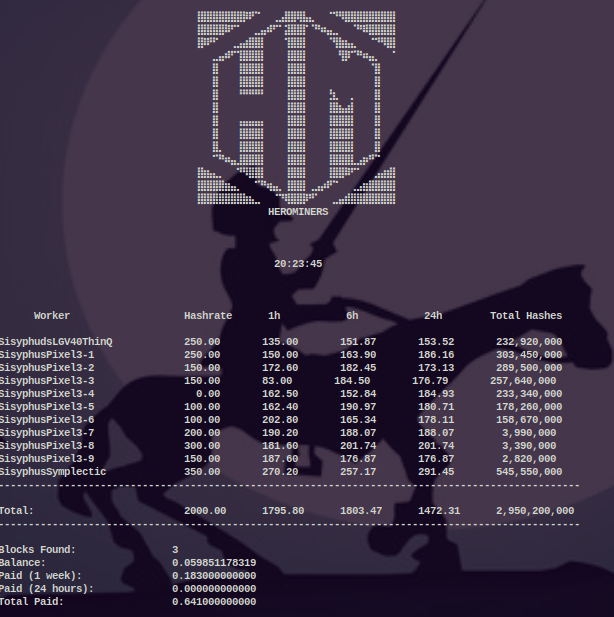
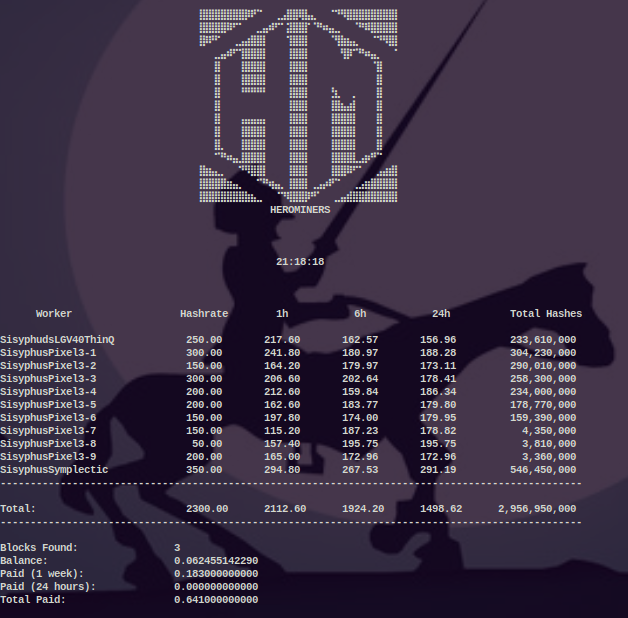
Updated format, new screenshot

diff --git a/herostatus.py b/herostatus.py
@@ -98,7 +98,7 @@ def main():
         print("\n\n")
         print(45*space, now)
         print("\n\n")
-        print(5*space,"Worker",17*space,"Hashrate", 4*space, "1h", 9*space,"6h", 9*space, "24h", 6*space,"Total Hashes\n")
+        print(5*space,"Worker",16*space,"Hashrate", 6*space, "1h", 9*space,"6h", 9*space, "24h", 8*space,"Total Hashes\n")
         try: 
             req = requests.get(api_url)
             json = req.json()
@@ -141,8 +141,8 @@ def main():
                                                                                  5*space,round(float(w['hashrate_6h']),2),
                                                                                  5*space,
                                                                                  round(float(w['hashrate_24h']),2),
-                                                                                 5*space,
-                                                                                 "{:,}".format(w['hashes'])))
+                                                                                 3*space,
+                                                                                 "{:>15,}".format(w['hashes'])))
                                                   
                         if w['hashrate_1h'] == 0:
                             print("\n\n %s IS OFFLINE!" % w['name'])
